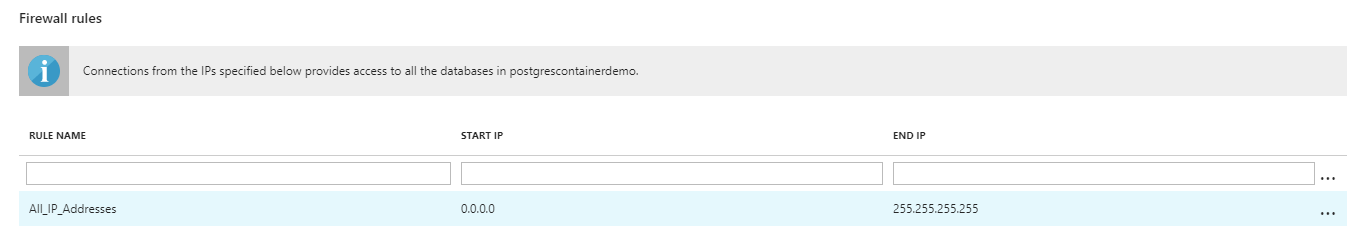
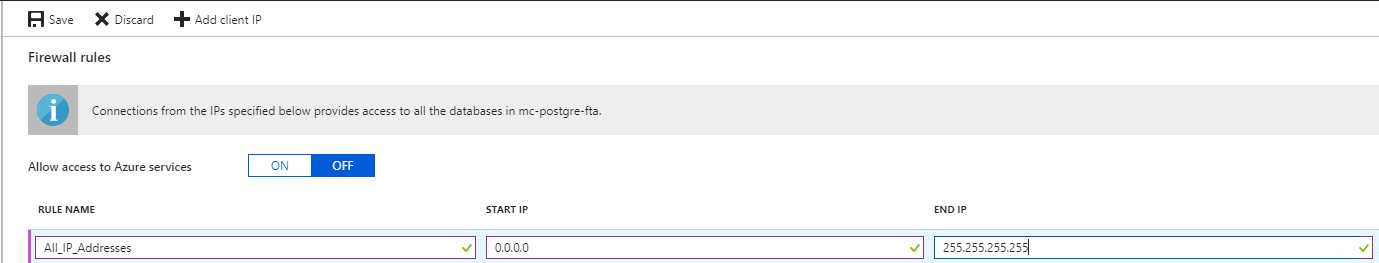
app

diff --git a/app-modernization/containers/articles/node-todo.md b/app-modernization/containers/articles/node-todo.md
@@ -26,7 +26,7 @@ To complete this POC, you will need:
 * You will need the [sample application](https://ftashared.blob.core.windows.net/demos/Node-Todo.zip) we are deploying
 
 ## Create Azure PostgreSQL
-1. Open the [Azure portal](https://portal.azure.com)
+1. Open the [Azure portal](https://portal.azure.cn)
 
 2. Click to create a new resource. In the search dialog, search for *postgresql* and click the search button.
 
@@ -35,9 +35,9 @@ To complete this POC, you will need:
     ![Screenshot](images/node-container/node-01.png)
 
 4. In the creation blade, provide the following values (you can substitute your own, but keep track of them):
-    * Server Name: **postgrescontainerdemo**
-    * Resource Group: **NodeContainer-POC-RG**
-    * Server admin login name: **demo**
+    * Server Name: **mc-postgre-fta**
+    * Resource Group: **mc-rg-fta-nodejs**
+    * Server admin login name: **ftachina**
     * Password: *{Provide a value}*
     * Pricing Tier: **Basic**
     
@@ -122,11 +122,11 @@ We will need a place to store the containers we are going to build in subsequent
     ```cmd
     docker build -t {Your_Registry}/node-todo:latest .
     ```
-    Where {Your_Registry} is the name of the registry you created in the Azure portal e.g. *contosoregistry.azurecr.io*
+    Where {Your_Registry} is the name of the registry you created in the Azure portal e.g. *mcacrfta.azurecr.cn*
 
     You should see output similar to the below:
     ```
-    docker build -t containerpocregistry.azurecr.io/node-todo:latest .
+    docker build -t mcacrfta.azurecr.cn/node-todo:latest .
     Sending build context to Docker daemon  63.91MB
     Step 1/13 : FROM node:6-alpine
     ---> cfabdfd5dcc7
@@ -143,7 +143,7 @@ We will need a place to store the containers we are going to build in subsequent
     Removing intermediate container 933cab5bb79e
     ---> 066ef104745d
     Successfully built 066ef104745d
-    Successfully tagged containerpocregistry.azurecr.io/node-todo:latest
+    Successfully tagged mcacrfta.azurecr.cn/node-todo:latest
     ```
 
 4. In the **host** folder, we have a file called **nginx.conf** which is the configuration file for describing how our nginx host will work. We will need to create a Dockerfile for this as well. In that Dockerfile add the following contents
@@ -172,8 +172,24 @@ We will need a place to store the containers we are going to build in subsequent
     ```
     Once done, you should see something similar to:
     ```
-    docker push containerpocregistry.azurecr.io/node-todo:latest
-    The push refers to repository [containerpocregistry.azurecr.io/node-todo]
+    docker push mcacrfta.azurecr.cn/node-todo-host:latest
+    ```
+
+6. Run the command `docker images` to see the images you just created.
+
+7. Now, login to your registry with the command `docker login {Your_Registry}`
+    > **Note**: The username and password are the values we saved earlier.
+
+    Once completed, you should see `Login Succeeded`
+
+8. Push the container to your registry with the following command:
+    ```cmd
+    docker push {Your_Registry}/node-todo:latest
+    ```
+    Once done, you should see something similar to:
+    ```
+    docker push mcacrfta.azurecr.cn/node-todo:latest
+    The push refers to repository [mcacrfta.azurecr.cn/node-todo]
     f9fcf76b4591: Pushed
     b8df0ba3fdba: Pushed
     7893b1bfb318: Pushed
@@ -184,6 +200,7 @@ We will need a place to store the containers we are going to build in subsequent
     ```cmd
     docker push {Your_Registry}/node-todo-host:latest
     ```
+
 
 ## Run in an Ubuntu Image
 We will now start to look at hosting options for running our containers. In this first example, we are going to look at running our application on an Ubuntu VM with 3 instances of our app running behind an nginx front end.

diff --git a/app-modernization/app-modernization-azurechina.md b/app-modernization/app-modernization-azurechina.md
@@ -18,9 +18,9 @@ See our [FastTrack for Azure landing page](https://github.com/Azure/FastTrackFor
 * Internal business app to Containers on Service Fabric
     * POC Scenario Contoso Expenses: Modernizing an Application to Windows Containers - Multi-Container deployment with DockerCompose on Service Fabric on Azure [China](containers-on-service-fabric/articles/containers-on-service-fabric-with-compose.md)
 
-* Modernize Traditional Applications using Containers
+* Modernize Traditional Applications using Containers 
    * [POC Scenario: Containerize ASP.NET Full Framework Application](containers/articles/aspnet-fullframework.md)
-   * [POC Scenario: Containerize ASP.NET Core Application](containers/articles/aspnet-core.md)
+   * POC Scenario: Containerize ASP.NET Core Application using Azure Container Registry in [China](containers/articles/aspnet-core.md)
    * [POC Scenario: Containerize a NodeJS Application](containers/articles/node-todo.md)
    * [POC Scenario - NA in China Azure: Containerize Contoso Expenses Full Framework Application on Windows Containers - Kubernetes in Azure Container Services](containers/articles/acs-with-kubernetes.md)
 
